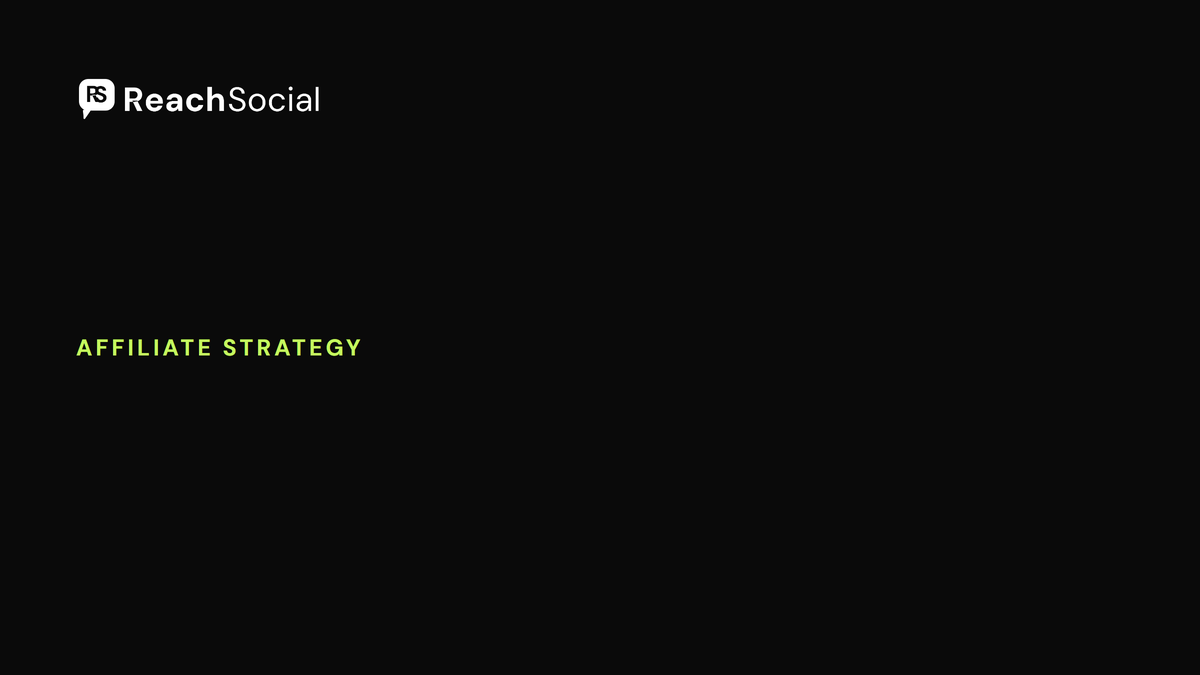
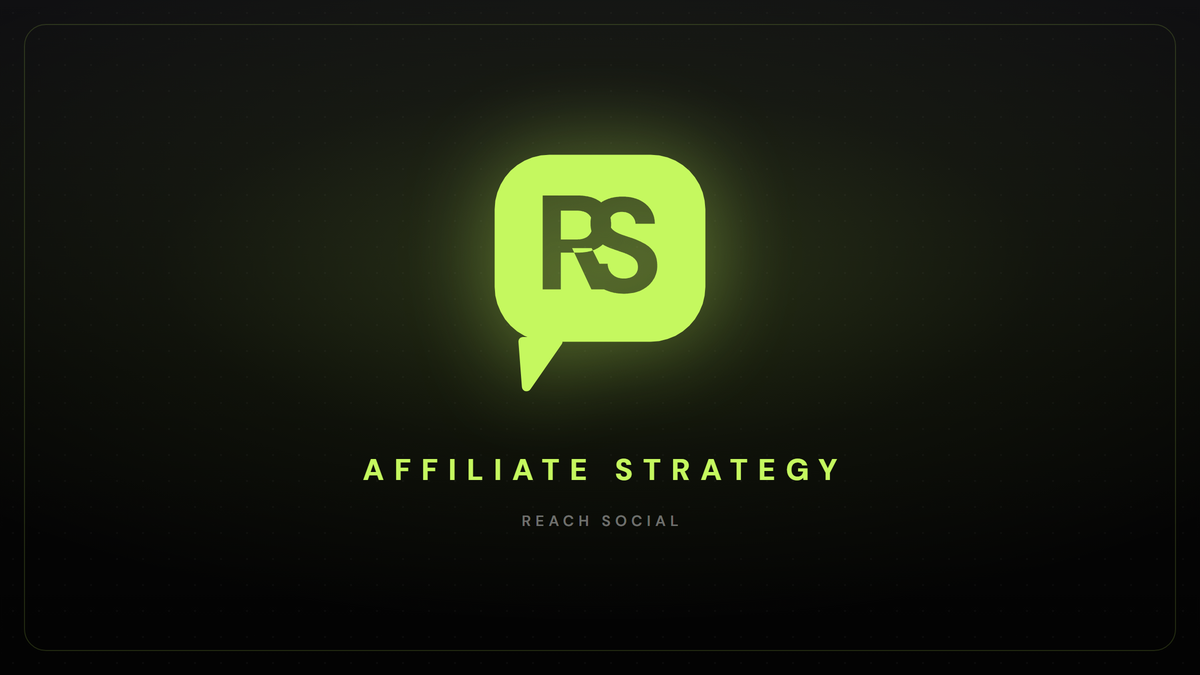
Redesign blog cover cards as branded covers; blog owns its card art (86bb4fc27)
Mike's feedback: the text-free cards looked empty (corner logo + floating
label). Replace them with a proper "podcast cover" thumbnail.

- New self-contained card renderer owned by the blog: render_card.py +
  card_template.html. Dark Reach panel with a subtle lime radial glow, the
  Reach mark (rs-mark.svg) large and centered in lime with a glow, the uppercase
  lime category eyebrow, and a small "Reach Social" wordline. NO headline, NO
  stat. Everything vertically centered so it never crops weirdly in the 160px
  index grid (verified against a simulated center-crop).
- Technique mirrors gen_images: fill template -> headless Chrome screenshot at
  2x -> Pillow downscale to exactly 1200x675. The shared gen_images.py is no
  longer used for cards (OG share image only).
- render_post.py now regenerates the cover card automatically (--no-card to
  skip); README documents the new flow.
- Regenerated all 4 <slug>-card.png; index featured + 3 grid reference them.

diff --git a/blog/_generator/card_template.html b/blog/_generator/card_template.html
@@ -1,0 +1,35 @@
+<!doctype html><html><head><meta charset="utf-8">
+<link rel="stylesheet" href="{{BRAND_CSS}}">
+<style>
+  *{margin:0;padding:0;box-sizing:border-box;}
+  html,body{width:1200px;height:675px;}
+  body{
+    position:relative;overflow:hidden;
+    background:
+      radial-gradient(115% 85% at 50% 40%, rgba(197,248,95,0.18) 0%, rgba(197,248,95,0.05) 32%, rgba(197,248,95,0) 62%),
+      radial-gradient(rgba(255,255,255,0.03) 1px, transparent 1px) 0 0 / 26px 26px,
+      linear-gradient(180deg, #101012 0%, #060606 55%, #030303 100%);
+    color:#C5F85F;
+    display:flex;flex-direction:column;align-items:center;justify-content:center;
+    -webkit-font-smoothing:antialiased;
+    font-family:var(--font-head,"DM Sans","Poppins",Arial,sans-serif);
+  }
+  /* inset frame for depth — kept well inside the 160px-tall grid crop */
+  .frame{position:absolute;inset:24px;border:1px solid rgba(197,248,95,0.16);border-radius:22px;pointer-events:none;}
+  /* everything critical stays vertically centered so the grid thumbnail never crops it */
+  .stack{display:flex;flex-direction:column;align-items:center;justify-content:center;}
+  .mark{width:236px;color:#C5F85F;filter:drop-shadow(0 0 44px rgba(197,248,95,0.42));line-height:0;}
+  .mark svg{display:block;width:100%;height:auto;}
+  .eyebrow{margin-top:42px;font-weight:800;text-transform:uppercase;
+    letter-spacing:.34em;font-size:30px;color:#C5F85F;text-align:center;padding-left:.34em;}
+  .brand{margin-top:15px;font-weight:600;font-size:15px;letter-spacing:.30em;
+    text-transform:uppercase;color:rgba(255,255,255,0.42);text-align:center;padding-left:.30em;}
+</style></head>
+<body>
+  <div class="frame"></div>
+  <div class="stack">
+    <div class="mark"><!--MARK--></div>
+    <div class="eyebrow">{{EYEBROW}}</div>
+    <div class="brand">Reach Social</div>
+  </div>
+</body></html>

diff --git a/blog/_generator/render_card.py b/blog/_generator/render_card.py
@@ -1,0 +1,88 @@
+#!/usr/bin/env python3
+"""
+render_card.py - Reach blog cover-card renderer (the blog owns its card art).
+
+Renders a branded 1200x675 "cover" thumbnail for a blog post: the Reach mark
+large and centered on a dark panel with a subtle lime radial glow, the uppercase
+lime category eyebrow beneath it, and a small "Reach Social" wordline. NO post
+headline, NO stat pill — so it never duplicates the H1 and never crops weirdly
+in the 160px-tall index grid (all content is vertically centered inside the
+safe zone).
+
+Technique mirrors ~/.amzadvisers/image-gen/gen_images.py: fill a self-contained
+HTML template (card_template.html), screenshot with headless Chrome at 2x, then
+downscale with Pillow to an exact 1200x675 PNG.
+
+Usage:
+  python render_card.py <slug> "<Category>"     # e.g. what-is-gmv-max-tiktok-shop "GMV Max"
+
+Or import:  from render_card import render_card ;  render_card(slug, category)
+"""
+import html as _html
+import shutil
+import subprocess
+import sys
+import tempfile
+from pathlib import Path
+
+from PIL import Image
+
+GEN = Path(__file__).resolve().parent          # blog/_generator
+BLOG = GEN.parent                               # blog/
+ASSETS = BLOG / "assets"
+KIT = Path.home() / ".amzadvisers" / "brand-kits" / "reach" / "assets"
+CHROME = r"C:\Program Files\Google\Chrome\Application\chrome.exe"
+W, H = 1200, 675
+
+
+def fileurl(p: Path) -> str:
+    return "file:///" + str(Path(p).resolve()).replace("\\", "/")
+
+
+def build_html(category: str) -> str:
+    tmpl = (GEN / "card_template.html").read_text(encoding="utf-8")
+    mark = (ASSETS / "rs-mark.svg").read_text(encoding="utf-8")
+    css = KIT / "brand.css"
+    css_url = fileurl(css) if css.exists() else ""
+    return (tmpl
+            .replace("{{BRAND_CSS}}", css_url)
+            .replace("<!--MARK-->", mark)
+            .replace("{{EYEBROW}}", _html.escape(category)))
+
+
+def render_card(slug: str, category: str) -> Path:
+    work = Path(tempfile.mkdtemp(prefix="reachcard_"))
+    try:
+        hp = work / "card.html"
+        hp.write_text(build_html(category), encoding="utf-8")
+        raw = work / "raw.png"
+        cmd = [
+            CHROME, "--headless=new", "--disable-gpu", "--hide-scrollbars",
+            "--no-first-run", "--no-default-browser-check",
+            f"--user-data-dir={work / 'prof'}",
+            "--force-device-scale-factor=2", f"--window-size={W},{H}",
+            "--virtual-time-budget=3000", "--run-all-compositor-stages-before-draw",
+            f"--screenshot={raw}", fileurl(hp),
+        ]
+        r = subprocess.run(cmd, capture_output=True, text=True, timeout=120)
+        if not raw.exists():
+            raise RuntimeError(f"chrome screenshot failed: {r.stderr[-500:]}")
+        ASSETS.mkdir(parents=True, exist_ok=True)
+        out = ASSETS / f"{slug}-card.png"
+        img = Image.open(raw).convert("RGB")
+        if img.size != (W, H):
+            img = img.resize((W, H), Image.LANCZOS)
+        img.save(out, "PNG")
+        return out
+    finally:
+        shutil.rmtree(work, ignore_errors=True)
+
+
+def main():
+    if len(sys.argv) != 3:
+        raise SystemExit(__doc__)
+    print("wrote", render_card(sys.argv[1], sys.argv[2]))
+
+
+if __name__ == "__main__":
+    main()

diff --git a/blog/_generator/render_post.py b/blog/_generator/render_post.py
@@ -107,6 +107,18 @@ def write_page(meta: dict) -> Path:
     return out
 
 
+def build_card(meta: dict):
+    """Render the branded cover card (blog/assets/<slug>-card.png). Best-effort:
+    needs headless Chrome. In a Chrome-less env the page HTML still renders and
+    only the card is skipped, with a warning."""
+    try:
+        sys.path.insert(0, str(GEN))
+        from render_card import render_card
+        render_card(meta["slug"], meta.get("category") or meta["eyebrow"])
+    except Exception as e:  # noqa: BLE001
+        print(f"  [warn] card not regenerated for {meta['slug']}: {e}")
+
+
 # --------------------------------------------------------------------------- #
 # Registry (source of truth for all derived surfaces, newest first)
 # --------------------------------------------------------------------------- #
@@ -224,9 +236,11 @@ def rebuild_llms(reg: list):
 
 
 # --------------------------------------------------------------------------- #
-def render(slug: str):
+def render(slug: str, cards: bool = True):
     meta = load_meta(slug)
     page = write_page(meta)
+    if cards:
+        build_card(meta)
     reg = upsert(load_registry(), meta)
     save_registry(reg)
     rebuild_index(reg)
@@ -236,17 +250,21 @@ def render(slug: str):
 
 
 def main():
-    if len(sys.argv) != 2:
+    args = [a for a in sys.argv[1:] if a != "--no-card"]
+    cards = "--no-card" not in sys.argv
+    if len(args) != 1:
         raise SystemExit(__doc__)
-    if sys.argv[1] == "--all":
+    if args[0] == "--all":
         for p in load_registry():
             meta = load_meta(p["slug"])
             write_page(meta)
+            if cards:
+                build_card(meta)
         reg = load_registry()
         rebuild_index(reg); rebuild_sitemap(reg); rebuild_llms(reg)
         print(f"re-rendered {len(reg)} posts")
     else:
-        render(sys.argv[1])
+        render(args[0], cards=cards)
 
 
 if __name__ == "__main__":

diff --git a/blog/_generator/README.md b/blog/_generator/README.md
@@ -15,7 +15,16 @@ sitemap, llms.txt, JSON-LD) is produced from the same source of truth.
   `{{CTA_PRE}}`, `{{SLUG}}`, `{{BODY_HTML}}`. The OG image is derived as
   `/blog/assets/{{SLUG}}-og.png`; every canonical/og/JSON-LD URL and both CTA
   `utm_campaign` values are derived from `{{SLUG}}`.
-- `render_post.py` — renders one post + rebuilds all derived surfaces.
+- `render_post.py` — renders one post + rebuilds all derived surfaces, and (by
+  default) regenerates the post's cover card.
+- `render_card.py` + `card_template.html` — the blog's **own** cover-card
+  renderer. Produces `blog/assets/<slug>-card.png`: the large centered lime Reach
+  mark on a dark panel with a subtle lime radial glow, the uppercase lime
+  category eyebrow, and a small "Reach Social" wordline. NO headline, NO stat,
+  and everything is vertically centered so it never crops weirdly in the 160px
+  grid. Same technique as gen_images (self-contained template → headless Chrome
+  screenshot at 2x → Pillow downscale to 1200x675). The blog owns its card art;
+  the shared `gen_images.py` is used only for the OG share image now.
 - `posts/<slug>.json` — per-post metadata (fields documented in the script
   header).
 - `posts/<slug>.body.html` — the inner HTML of `<article class="rs-post-body">`
@@ -37,35 +46,39 @@ sitemap, llms.txt, JSON-LD) is produced from the same source of truth.
    - `<slug>.body.html` — the article body, Reach Social company voice. Real
      numbers only, client names anonymized to category descriptors.
 
-2. Generate the two images with the shared brand-kit generator
-   (`~/.amzadvisers/image-gen/gen_images.py`), writing into `blog/assets/`:
+2. Generate the OG share image with the shared brand-kit generator
+   (`~/.amzadvisers/image-gen/gen_images.py`), writing into `blog/assets/`.
+   The cover **card** is produced by `render_post.py` (step 3) — do NOT make a
+   card with gen_images, and never make a `-hero.png` (the in-body hero is gone
+   by design):
 
    ```sh
    G=~/.amzadvisers/image-gen/gen_images.py
-   # clean, TEXT-FREE thumbnail — logo + category eyebrow only (NO headline, NO stat)
-   python "$G" --brand reach --slug <slug> --out blog/assets --types card \
-       --eyebrow "<Category>"
    # OG share card — headline baked in is fine here
    python "$G" --brand reach --slug <slug> --out blog/assets --types og \
        --eyebrow "Reach Social · <Category>" --headline "<short headline>" \
        --impact "<one real stat>"
    ```
 
-   Never generate a `-hero.png`. The in-body hero image is gone by design.
-
-3. Render:
+3. Render (writes the page, regenerates the cover card, rebuilds every surface):
 
    ```sh
    python blog/_generator/render_post.py <slug>
    ```
 
-   This writes `blog/<slug>/index.html`, promotes the post to the index
-   `featured` slot, demotes the previously featured post to the top of the
-   grid, and rebuilds `blog/sitemap.xml`, `blog/llms.txt`, and the index
-   JSON-LD. It is idempotent: re-running a slug updates it in place; new slugs
-   go to the front (newest → featured).
+   This writes `blog/<slug>/index.html`, regenerates `blog/assets/<slug>-card.png`
+   via `render_card.py`, promotes the post to the index `featured` slot, demotes
+   the previously featured post to the top of the grid, and rebuilds
+   `blog/sitemap.xml`, `blog/llms.txt`, and the index JSON-LD. It is idempotent:
+   re-running a slug updates it in place; new slugs go to the front (newest →
+   featured). Pass `--no-card` to skip card regeneration (e.g. no Chrome). The
+   card can also be made on its own:
 
-4. Re-render everything (e.g. after a template change):
+   ```sh
+   python blog/_generator/render_card.py <slug> "<Category>"
+   ```
+
+4. Re-render everything (e.g. after a template or card-design change):
 
    ```sh
    python blog/_generator/render_post.py --all
